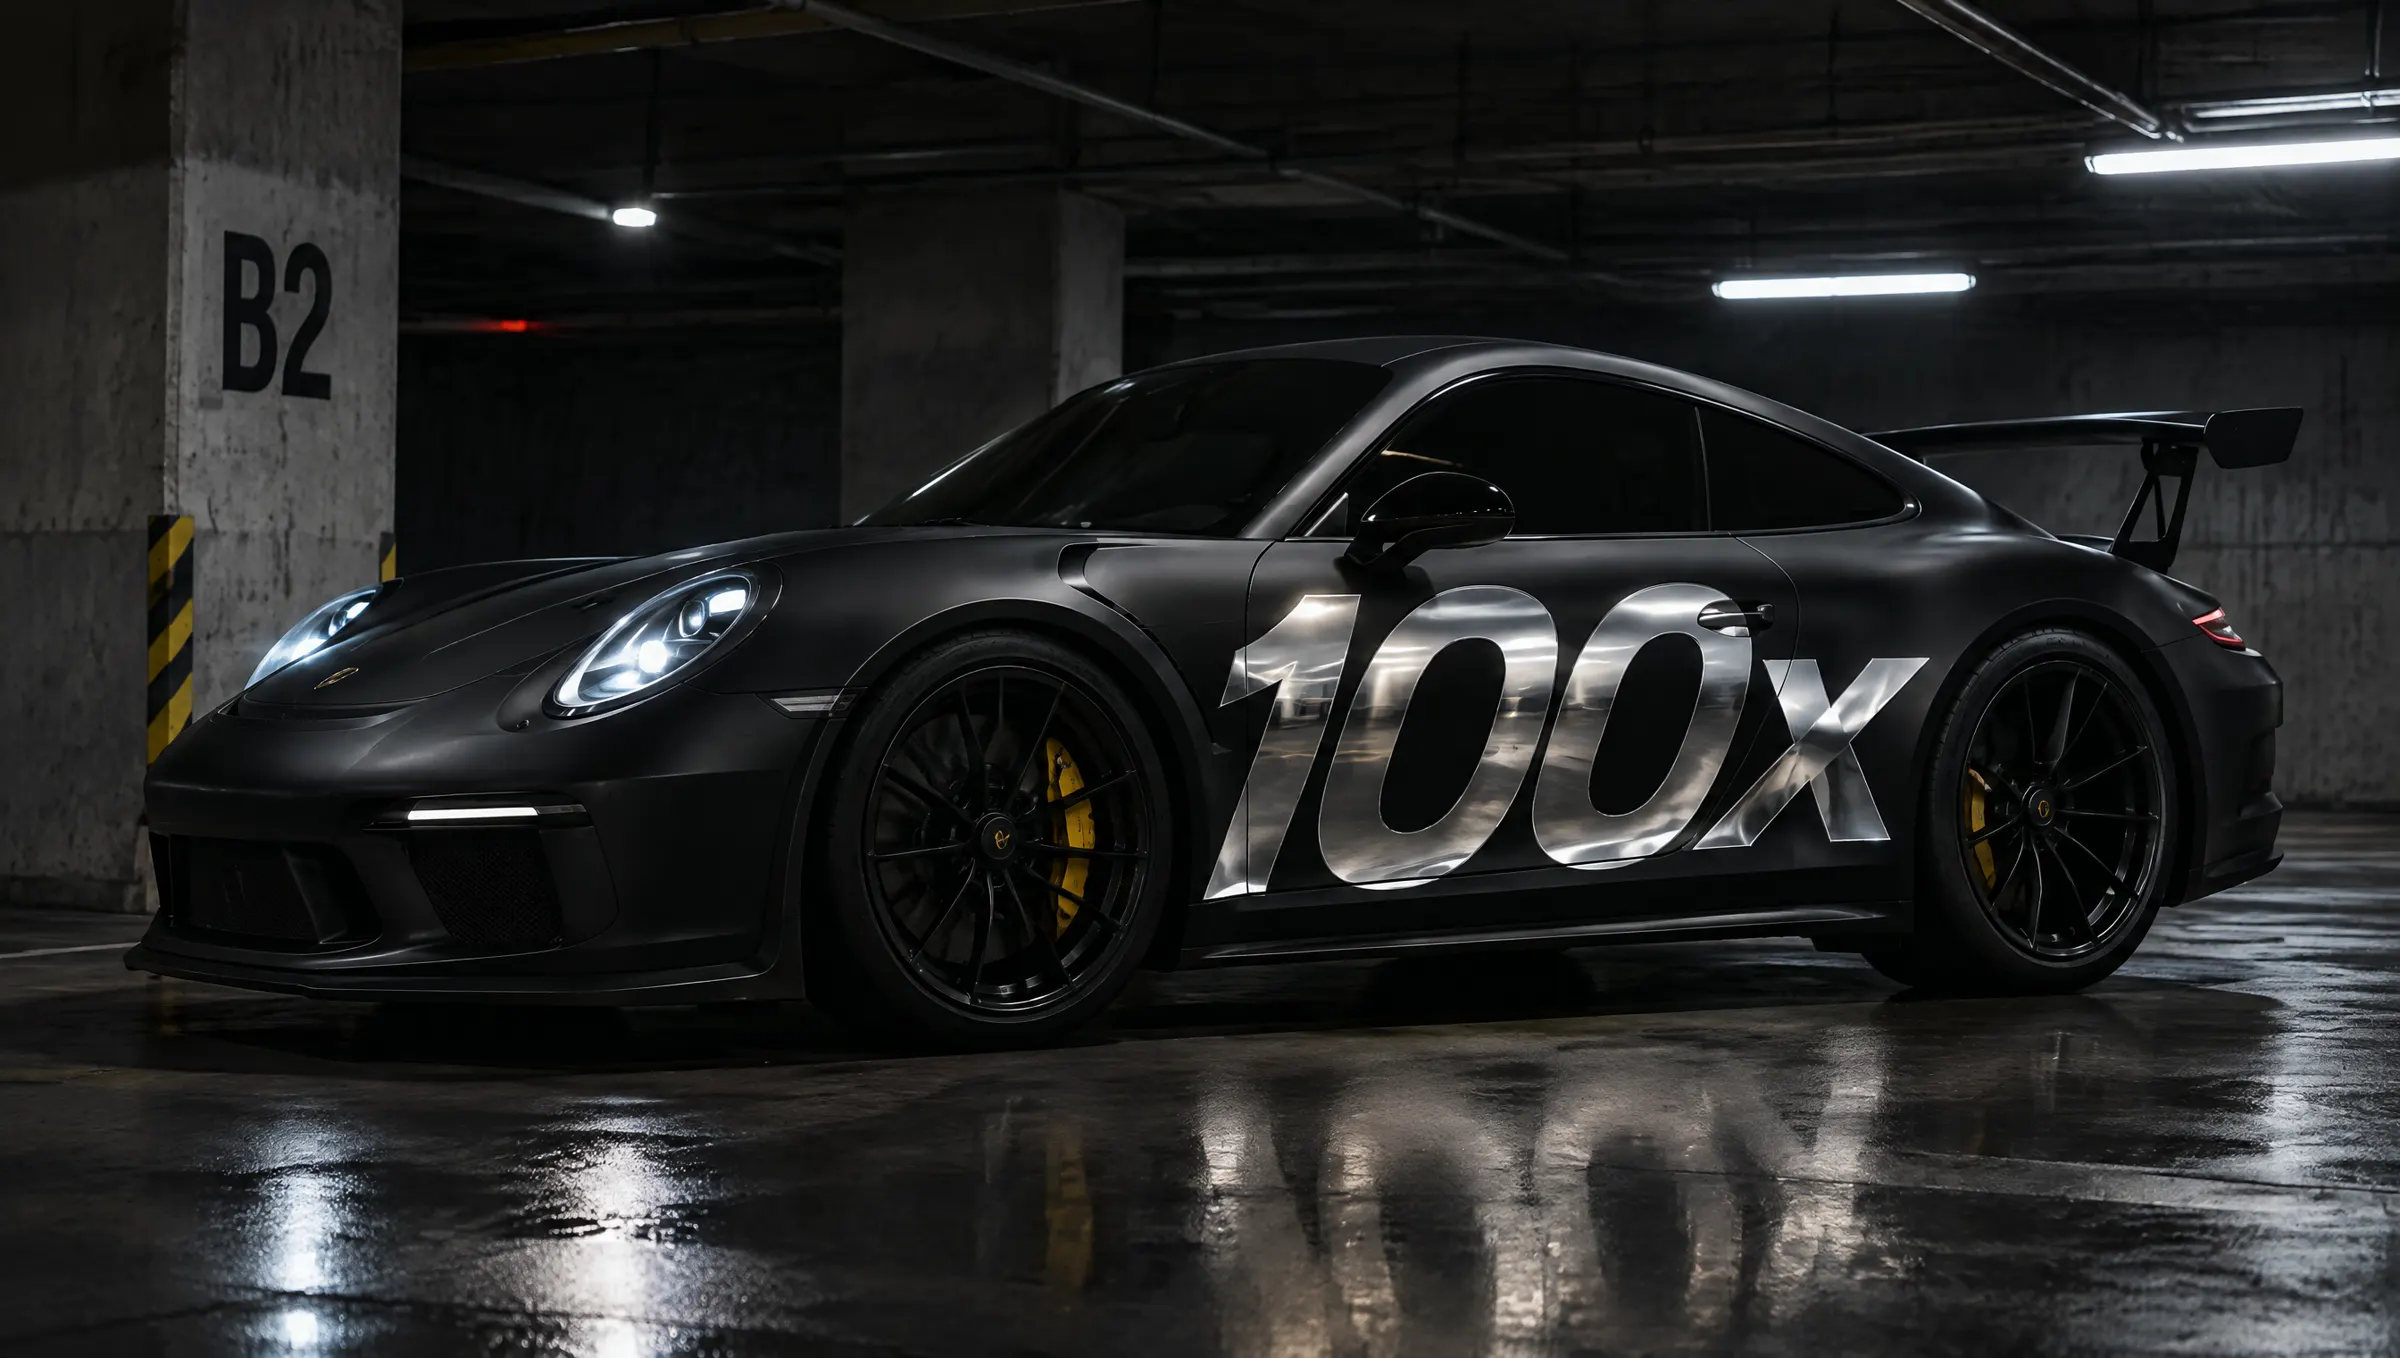
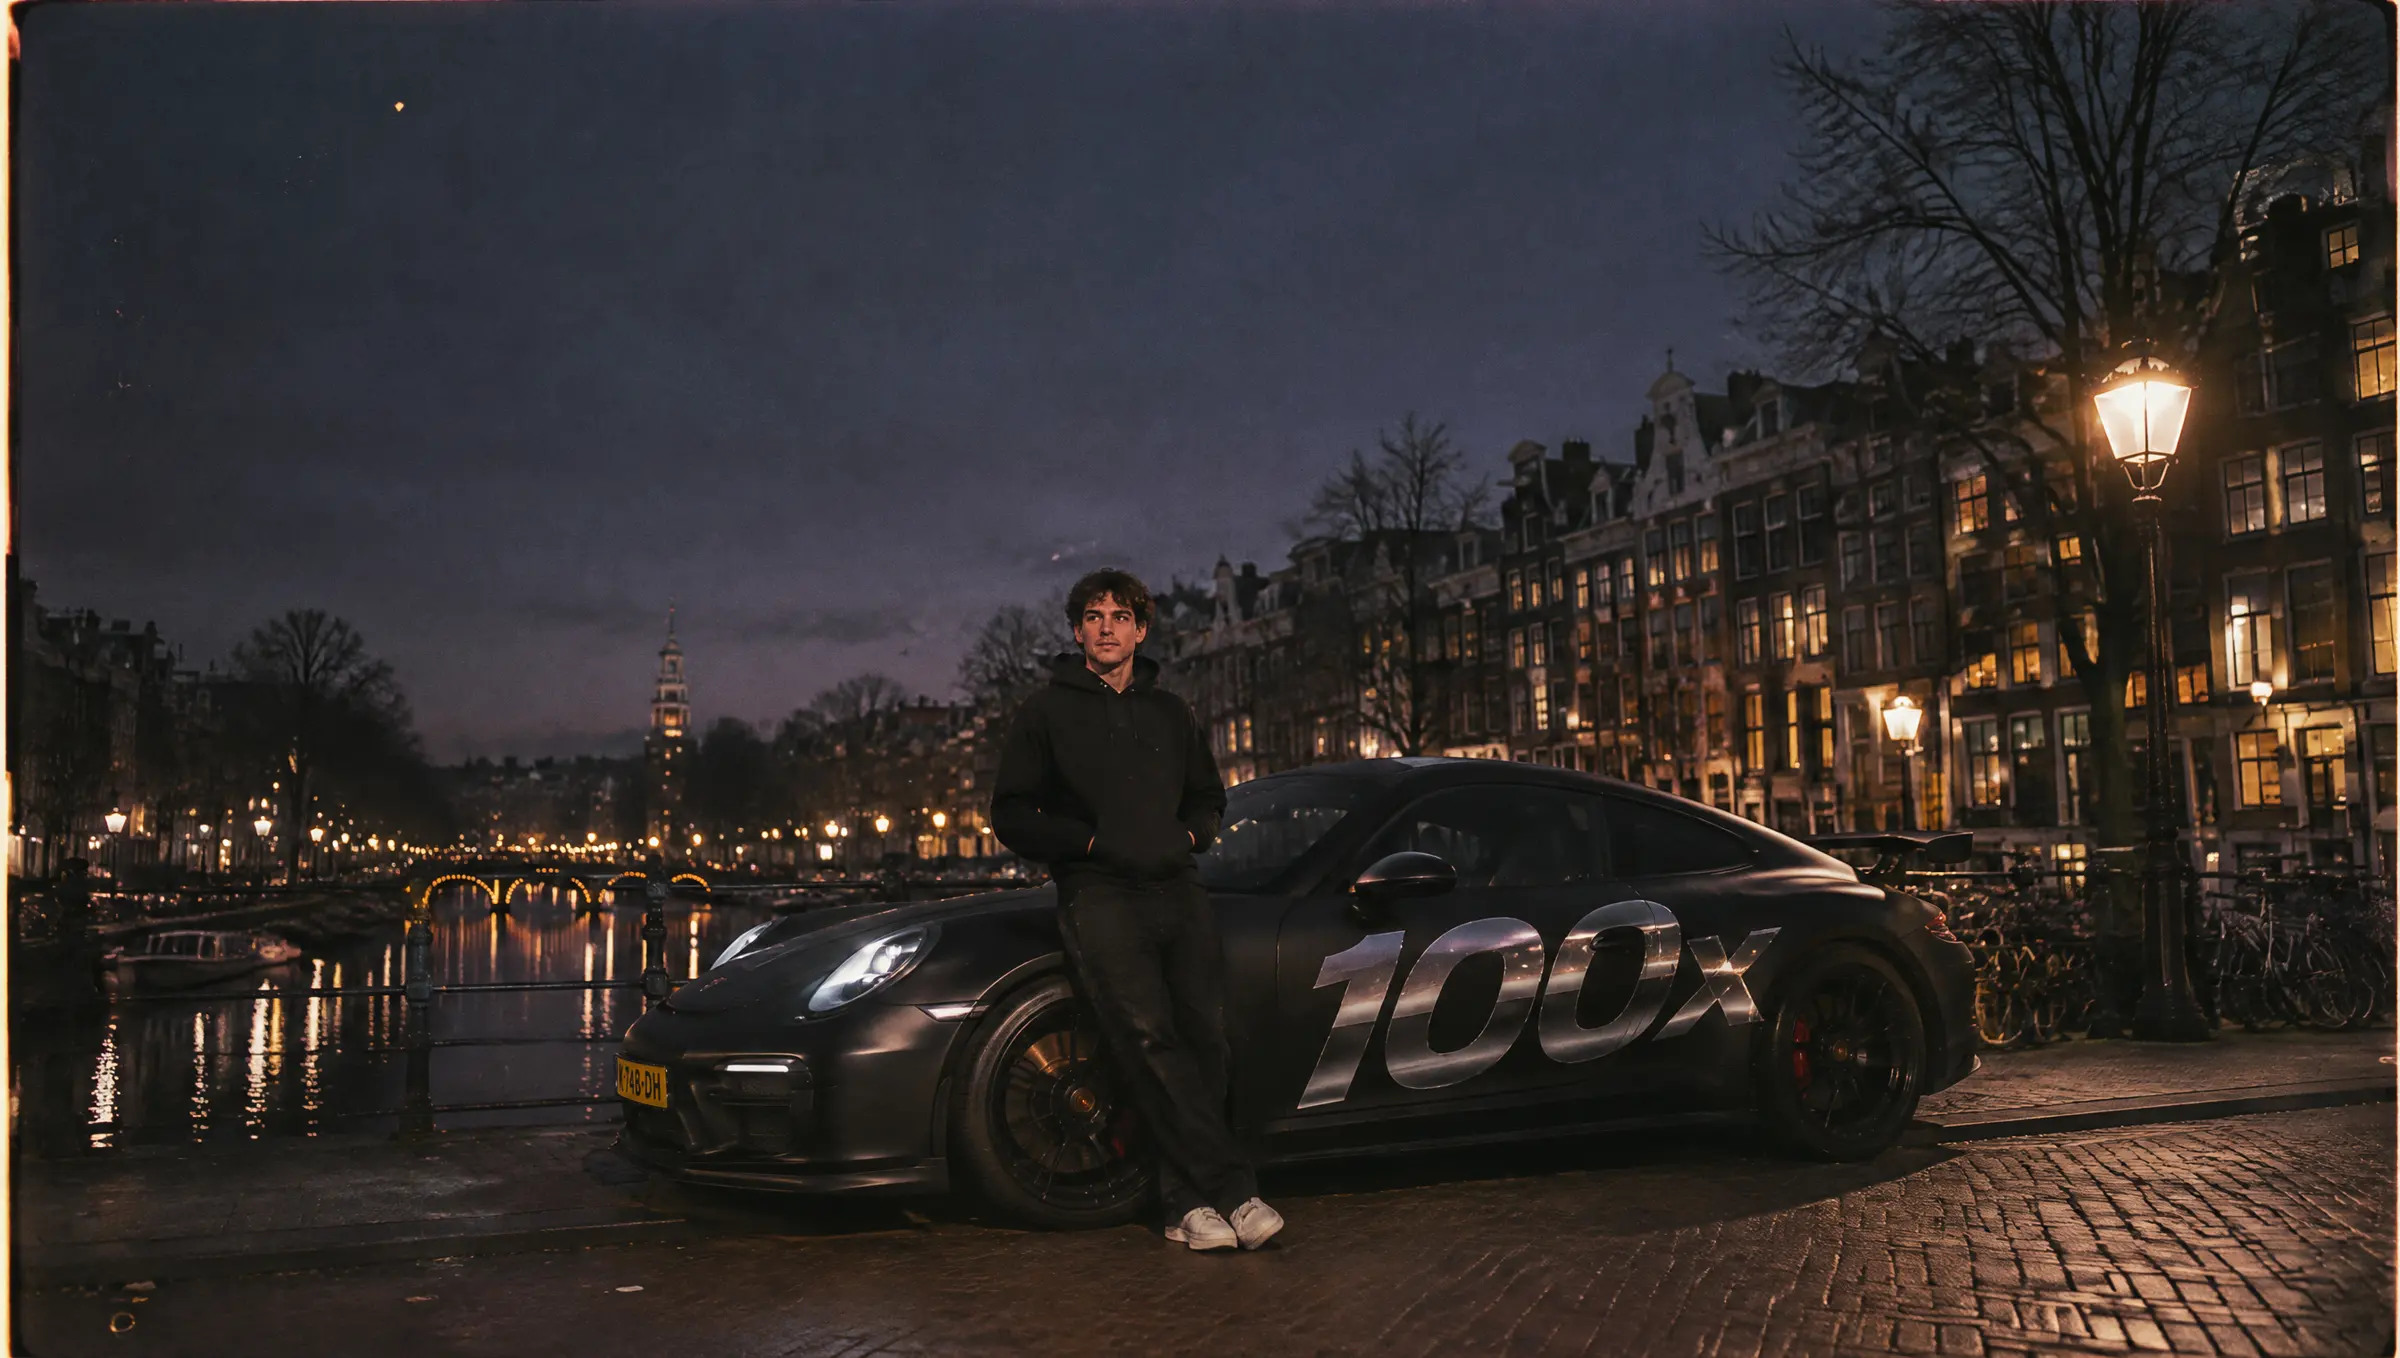
Alle beelden in dezelfde warme lifestylestijl
Hero: auto met 100x-wrap op een Amsterdamse gracht bij schemer. Ketting gedragen
(zilver), Build/Buy/Invest met mensen, founder bij een raam (geblurd).

diff --git a/index.html b/index.html
@@ -32,12 +32,12 @@
     <section class="hero" aria-labelledby="hero-title">
       <picture class="hero__media shutter">
         <source media="(max-width: 700px)" srcset="images/auto-mobiel.webp">
-        <img src="images/auto.webp" width="2400" height="1358" alt="Matte black sports car with a chrome 100x wrap on the door, in a dark garage">
+        <img src="images/auto.webp" width="2400" height="1358" alt="A young man leaning on a matte black sports car with a chrome 100x wrap, on an Amsterdam canal at dusk">
       </picture>
       <div class="hero__text">
         <h1 id="hero-title" class="hero__title" aria-label="We make brands 100x bigger">
           <span class="hero__line" aria-hidden="true">We make brands</span>
-          <span class="hero__line" aria-hidden="true"><span class="slot"><img src="images/ketting-slot.webp" width="900" height="558" alt=""></span> bigger</span>
+          <span class="hero__line" aria-hidden="true"><span class="slot"><img src="images/ketting-slot.webp" width="900" height="556" alt=""></span> bigger</span>
         </h1>
         <p class="hero__lead">100x Group builds its own e-commerce brands, and buys others to make them bigger.</p>
       </div>
@@ -166,17 +166,17 @@
     <section class="verbs" id="how" aria-labelledby="how-title">
       <h2 id="how-title" class="visually-hidden">How we work: build, buy, invest</h2>
       <div class="verb">
-        <img class="verb__img" src="images/studio.webp" width="2400" height="1358" alt="A dark photo studio with softboxes and a camera on a tripod" loading="lazy">
+        <img class="verb__img" src="images/studio.webp" width="2400" height="1358" alt="A young team shooting product content in a sunlit studio" loading="lazy">
         <div class="verb__word-wrap"><p class="verb__word" aria-hidden="true">Build</p></div>
         <p class="verb__text"><strong>Build.</strong> We start our own brands from zero and run every part in-house: product, content, ads and operations.</p>
       </div>
       <div class="verb">
-        <img class="verb__img" src="images/sleutels.webp" width="2400" height="1358" alt="Car keys and a signed contract on a black marble desk" loading="lazy">
+        <img class="verb__img" src="images/sleutels.webp" width="2400" height="1358" alt="Two young entrepreneurs shaking hands over a signed contract in a cafe" loading="lazy">
         <div class="verb__word-wrap"><p class="verb__word" aria-hidden="true">Buy</p></div>
         <p class="verb__text"><strong>Buy.</strong> We buy e-commerce brands we believe in and make them bigger with the same systems.</p>
       </div>
       <div class="verb">
-        <img class="verb__img" src="images/schermen.webp" width="2400" height="1358" alt="A dark office at night with a wall of screens showing sales charts" loading="lazy">
+        <img class="verb__img" src="images/schermen.webp" width="2400" height="1358" alt="A young founder working on a laptop in a sunny loft office" loading="lazy">
         <div class="verb__word-wrap"><p class="verb__word" aria-hidden="true">Invest</p></div>
         <p class="verb__text"><strong>Invest.</strong> Our systems behind your brand, in return for a stake. We grow when you grow.</p>
       </div>
@@ -190,7 +190,7 @@
         <p>Founder: anonymous, for now</p>
       </div>
       <div class="founder__portrait" data-portrait>
-        <img src="images/founder.webp" width="900" height="900" alt="The founder at a desk, blurred beyond recognition" loading="lazy">
+        <img src="images/founder.webp" width="900" height="900" alt="The founder at a window at night, blurred beyond recognition" loading="lazy">
       </div>
       <div class="founder__body">
         <h2 id="founder-title" class="founder__title">Who's behind it</h2>

diff --git a/css/style.css b/css/style.css
@@ -96,7 +96,7 @@ a { color: inherit; text-decoration: none; }
   overflow: hidden;
 }
 .hero__media { position: absolute; inset: 0; }
-.hero__media img { width: 100%; height: 100%; object-fit: cover; object-position: 50% 70%; }
+.hero__media img { width: 100%; height: 100%; object-fit: cover; object-position: 50% 80%; }
 .hero__text {
   position: relative; z-index: 1;
   flex: 1;
@@ -113,7 +113,7 @@ a { color: inherit; text-decoration: none; }
   overflow: hidden;
   background: var(--bg);
 }
-.slot img { width: 100%; height: 100%; object-fit: cover; object-position: 50% 62%; }
+.slot img { width: 100%; height: 100%; object-fit: cover; object-position: 50% 55%; }
 .hero__lead {
   margin-top: 40px;
   align-self: flex-start;
